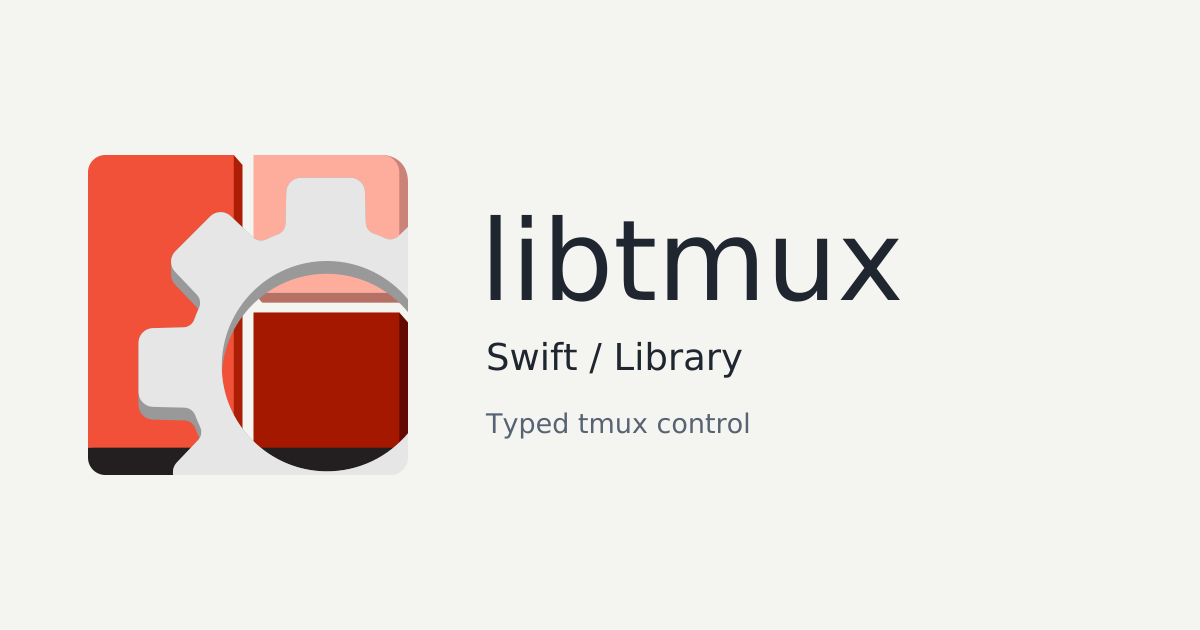
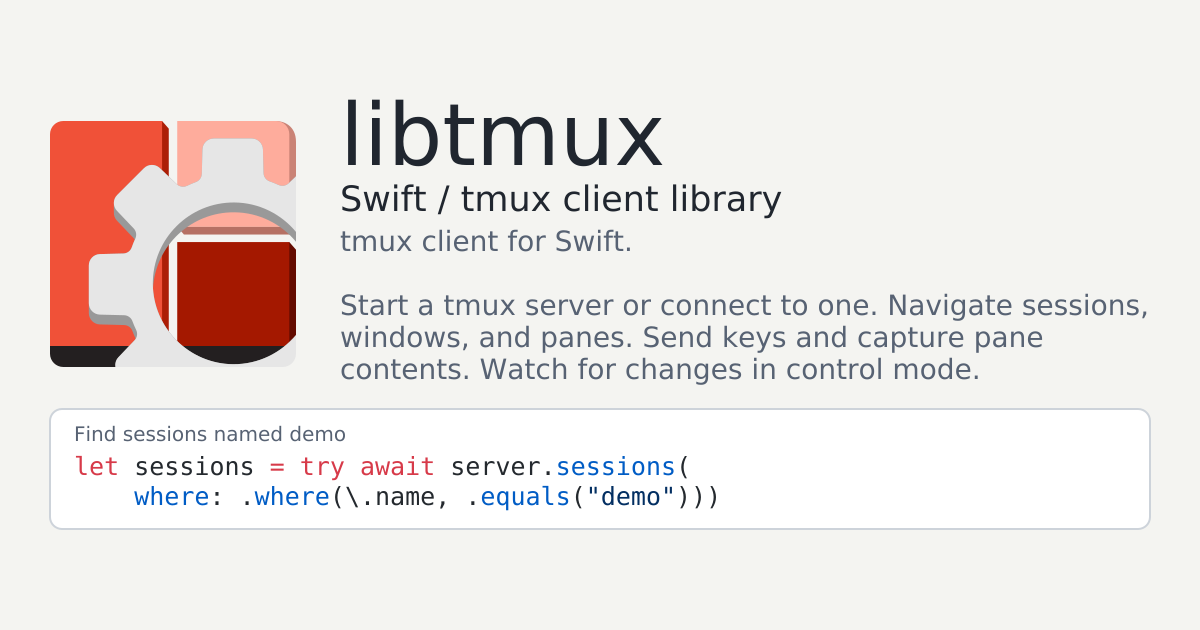
Docs(brand): Show a query on the sharing card
why: Sharing a library link should show how to query tmux in that
language.

what:
- Copy the reviewed sharing artwork and record its source revision

Changed region(s): [[0.0308, 0.1508, 0.9558, 0.8444]]

diff --git a/assets/README.md b/assets/README.md
@@ -12,3 +12,6 @@ symbol comes from the [upstream logo](https://github.com/modelcontextprotocol/mo
 Package-specific artwork sits beside its README where the package format
 supports it. `.github/social-preview.png` is the cog sharing card, ready to
 upload under the repository's **Settings → Social preview**.
+
+The sharing card comes from `assets/swift/library/opengraph-light.png`
+at kit revision `c9688d9db25e4c522ff1255d0f3badaf27d780dd`.
